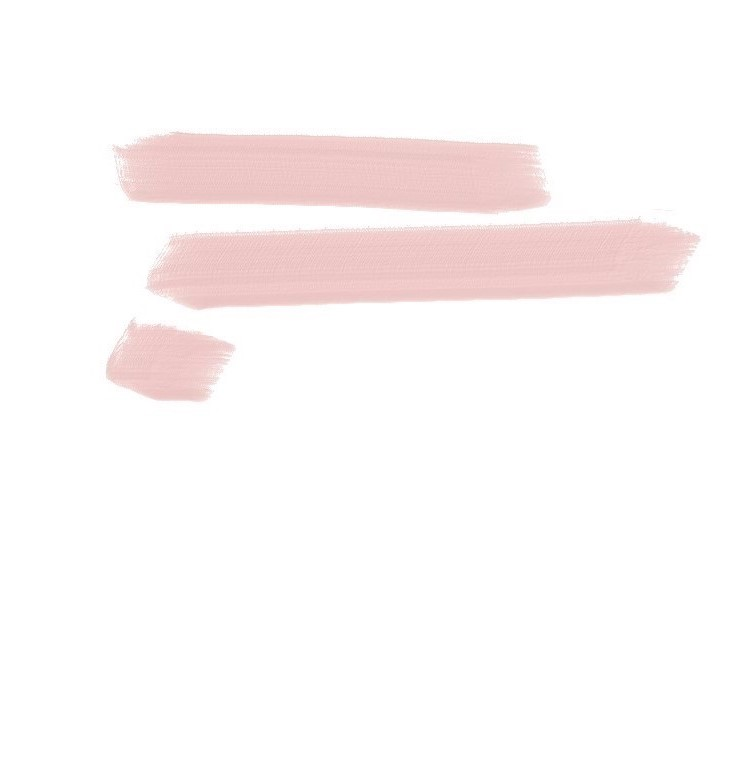
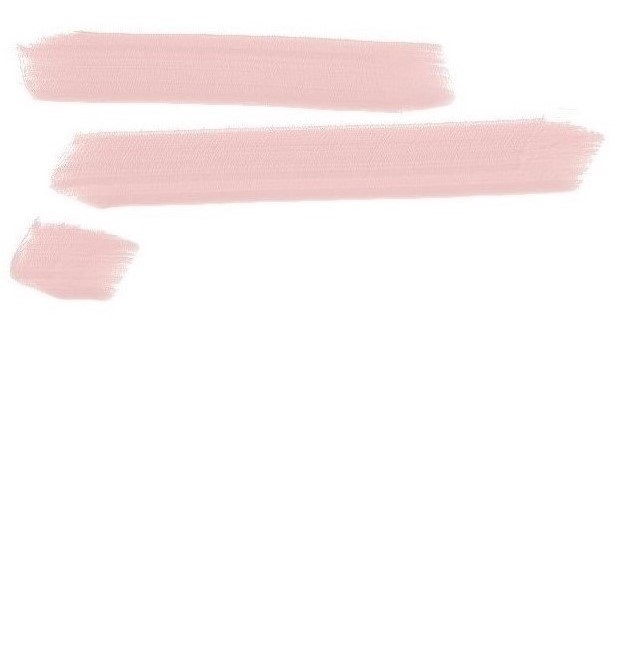
Little touch ups
Just making some little adjustments

Changed region(s): [[0.0, 0.0304, 0.9728, 0.5479]]

diff --git a/index.html b/index.html
@@ -39,8 +39,7 @@
 <body>
 
 
-    <div class="mb-lg-5" id="home"></div>
-    <nav class="navbar navbar-expand-lg fixed-top navbar-light shadow" >
+    <nav class="navbar navbar-expand-lg fixed-top navbar-light shadow">
         <!-- this is the icon that appears when the nav is small -->
         <button class="navbar-toggler" type="button" data-toggle="collapse" data-target="#navbarTogglerDemo01" aria-controls="navbarTogglerDemo01" aria-expanded="false" aria-label="Toggle navigation">
             <span class="navbar-toggler-icon"></span>
@@ -72,40 +71,44 @@
 
         </div>
     </nav>
-   
-             
 
     <div class="row">
+        <div class="mb-5" id="home"></div>
+    </div>
+    
 
-        <div class="col-lg-6" style="z-index: 1; position: absolute">
-            <img src="images\Seattleimg.jpg" class="img-fluid shadow" />
-        </div>
-        <div class="col-lg-5" style="z-index: -1; position: absolute; left: 40%;">
-            <img src="images\Seattlepaint.jpg" class="" />
-        </div>
 
-        <div class="col-lg-5"></div>
-        <div class="col-lg-6 col-md-8 col-sm-10 mt-5" style="z-index: 1; ">
-            <div class="container-fluid m-0 bg">
-                <div class="row mt-5 pt-5">
-                    <div class="col-3"></div>
+    <div class="row mt-5">
+        <div class="col-lg-4 col-sm-12 mt-lg-5 mt-sm-2 ml-5">
+            <img src="images\Seattleimg.jpg" class="img-fluid shadow" style="z-index: 1; " />
+        </div>
+        <div class="col-lg-1 col-sm-2"></div>
+        <div class="col-lg-6 col-md-8 col-sm-11 mt-5 ml-lg-1 ml-sm-5">
+            <div class="col-12">
+                <img src="images\Seattlepaint.jpg" class="" style="z-index: -2; position: absolute" />
+
+
+                <div class="row pt-5">
+
+                    <div class="col-2"></div>
                     <div class="col-6">
                         <h1 class="text" style="transform: scale(1.5)">.allieKnepp {</h1>
                     </div>
                 </div>
                 <div class="row m-5">
-                    <div class="col-3"></div>
-                    <div class="col-9">
+                    <div class="col-lg-2 col-sm-1"></div>
+                    <div class="col-lg-10 col-sm-12">
                         <h2 class="text" style="transform: scale(1.1)">Web: Development, Design;</h2>
                     </div>
                 </div>
                 <div class="row pb-5 mb-lg-5">
-                    <div class="col-3"></div>
+                    <div class="col-2"></div>
                     <div class="col-6">
                         <h1 class="text" style="transform: scale(1.5)">}</h1>
                     </div>
                 </div>
             </div>
+
         </div>
     </div>
 
@@ -113,12 +116,12 @@
     <!--this is the about section-->
 
     <div class="mb-lg-5 p-5" id="about"></div>
-    <div class="m-3">
+    <div class="ml-lg-3 ml-sm-1">
         <img src="images\paintstroke.png" style="position: absolute;" />
     </div>
 
     <!-- The about section -->
-    <div class="row mt-5">
+    <div class="row mt-lg-5 mt-sm-1">
         <div class="col-1 mt-5"></div>
         <div class="col-6 mt-5">
             <h2>About</h2>
@@ -149,7 +152,7 @@
     </div>
 
     <!-- The projects/ work section -->
-    <div class="ml-3">
+    <div class="ml-lg-3 ml-sm-1 pt-1">
         <img src="images\paintstroke.png" style="position: absolute;" />
     </div>
     <div class="row mt-5">
@@ -275,7 +278,7 @@
 
     <!-- Contact section -->
 
-    <div class="ml-4">
+    <div class="ml-lg-3 ml-sm-1">
         <img src="images\paintstroke.png" style="position: absolute; width:auto" />
     </div>
     <div class="row mt-5" id="contact">
